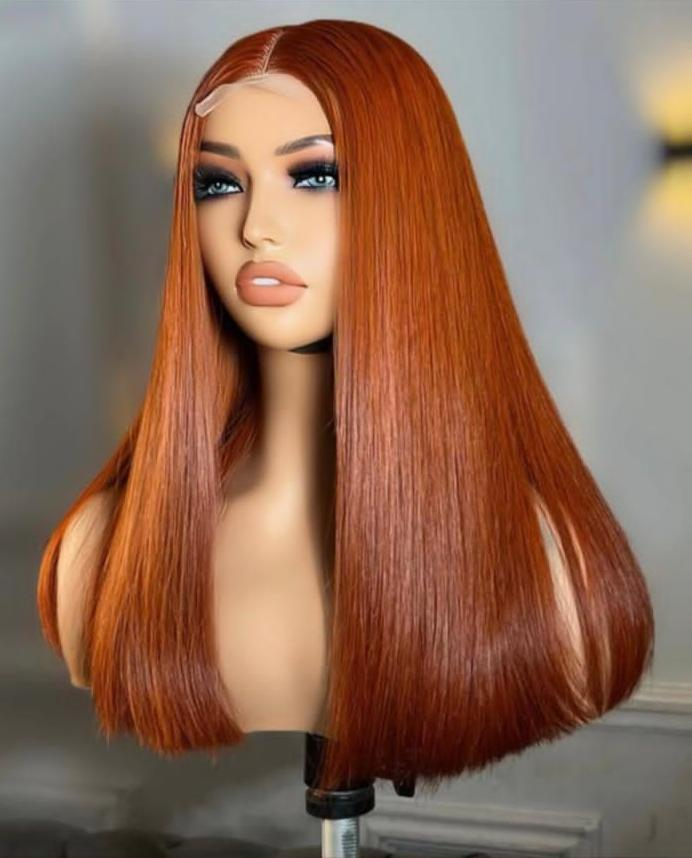
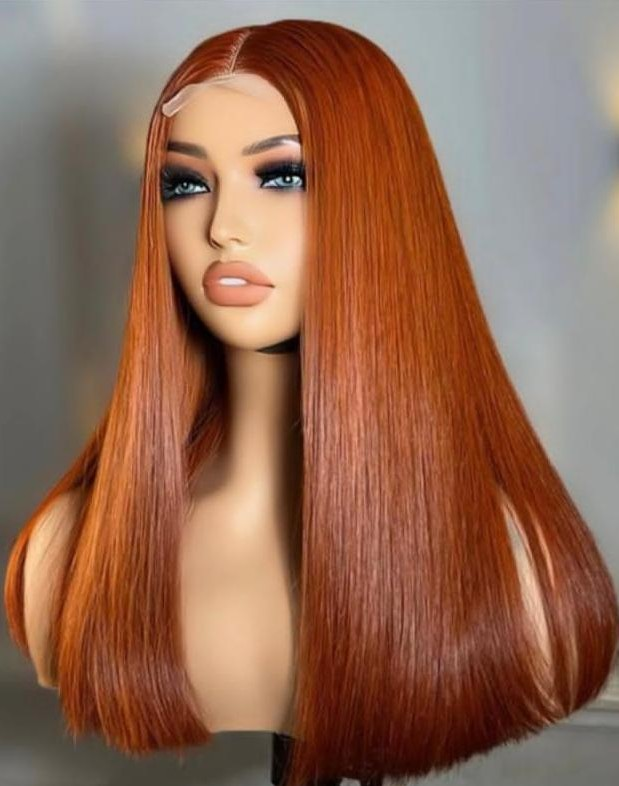
change

diff --git a/index.html b/index.html
@@ -11,7 +11,6 @@
   <link rel="stylesheet" href="style.css" />
 </head>
 <body>
-  <!-- Added an explicit ID target to make sure logo and footer navigation jump smoothly to top -->
   <header class="site-header" id="top">
     <nav class="nav-wrap" aria-label="Primary navigation">
       <a class="brand" href="#top" aria-label="Chrisy Hair Studio home">
@@ -150,7 +149,7 @@
               <h3>Hair Care Essentials</h3>
               <p>Nourishing products to keep your hair soft, healthy, shiny, and easy to maintain between installs and styling sessions.</p>
               <div class="product-meta">
-                <span>From ₦18,000</span>
+                <span>From ₦58,000</span>
                 <a href="https://wa.me/2349038425901?text=Hi%20Chrisy%20Hair%20Studio!%20I'm%20interested%20in%20buying%20some%20Hair%20Care%20Essentials." target="_blank" rel="noopener">View / Order</a>
               </div>
             </div>